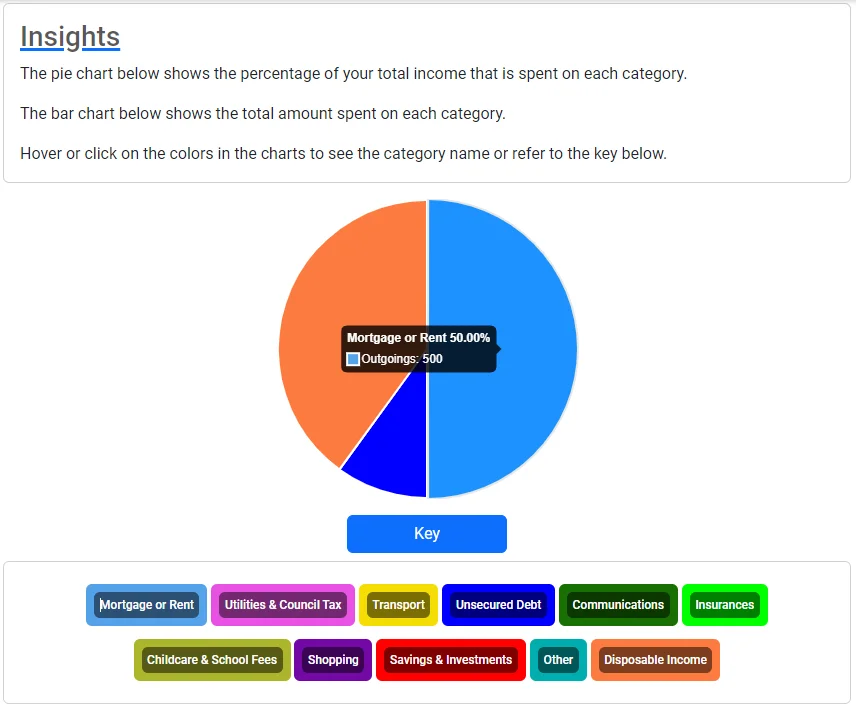
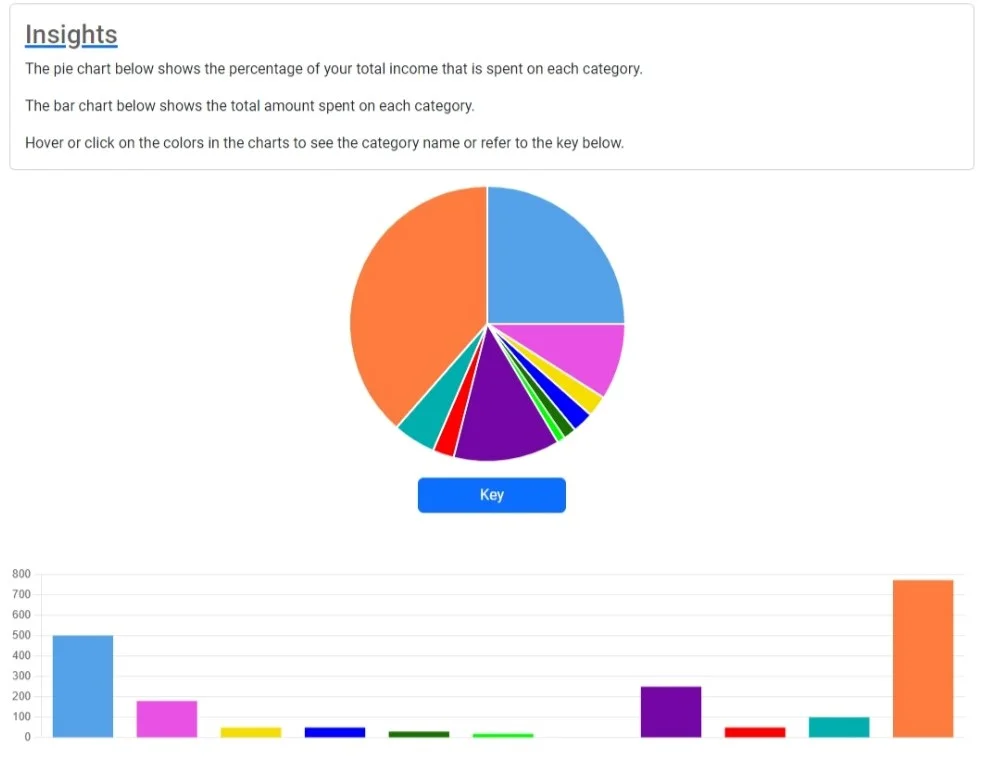
DOC: Budget table and insights images in README
Update images for budget table and insights in features section

Changed region(s): [[0.0, 0.0, 0.972, 0.9972], [0.972, 0.0, 1.0, 0.0312]]

diff --git a/README.md b/README.md
@@ -210,13 +210,12 @@ The database schema flow charts were created using [Figma](https://www.figma.com
 
 -   A full budget table showing all the users income and outgoings that they have added to that specific budget.
 
-    <img src="./documentation/features/budgettable1.webp" alt="Screenshot of budget table">
-    <img src="./documentation/features/budgettable2.webp" alt="Screenshot of budget table">
+    <img src="./documentation/features/budgettable.webp" alt="Screenshot of budget table">
 
--   Handy insights into the users budget, conveniently presented in both a pie chart which shoes the percentage of their total income that is being spent in each transaction category, and a bar chart which shoes the total amount that is being spent on each transaction category. The user is able to hover over each colour for further info or use the key button to show which colour represents which category
+-   Handy insights into the users budget, conveniently presented in both a pie chart which shows the percentage of their total income that is being spent in each transaction category, and a bar chart which shoes the total amount that is being spent on each transaction category. The user is able to hover over each colour for further info or use the key button to show which colour represents which category
 
-    <img src="./documentation/features/insights1.webp" alt="Screenshot of insights">
-    <img src="./documentation/features/insights2.webp" alt="Screenshot of insights">
+    <img src="./documentation/features/insights1.webp" alt="Screenshot of insights with key closed">
+    <img src="./documentation/features/insights2.webp" alt="Screenshot of insights with key open">
 
 -   The user is provided numerous ways to get in touch for help via social media links placed in the footer or by submitting a web form by clicking the email icon in the footer or the support link in the navbar. Once a support message is sent the user is also sent an auto reply via email to advise of the current response times.
 
